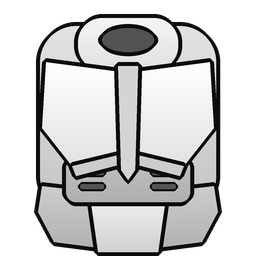
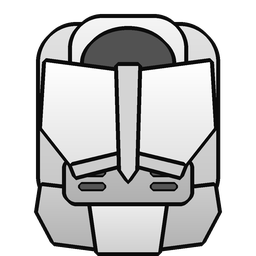
Bulwark v2: helmet sits inside the collar opening (dark crescent above it), rule added to the style guide
Claude-Session: https://claude.ai/code/session_01GM4XsNt8FF8EEgy8oUJDKj

Changed region(s): [[0.25, 0.0625, 0.75, 0.2812]]

diff --git a/Source/Art/v2/bulwark.py b/Source/Art/v2/bulwark.py
@@ -5,8 +5,8 @@ def sym(left):            # left half points (x<128) -> full symmetric outline
 # ---------------- BODY
 B=Layer()
 B.plate(B.rrect(40,26,216,212,36),226,196)                                    # torso block
-B.plate(B.rrect(78,18,178,70,24),245,225)                                     # collar rim
-B.plate(B.ell(102,28,154,52),82,stroke=4)                                      # neck opening
+B.plate(B.rrect(72,18,184,92,30),245,225)                                     # collar rim
+B.plate(B.ell(84,30,172,96),82,stroke=4)                                      # neck opening
 B.plate(B.poly([(42,186),(94,192),(100,248),(54,242),(38,212)]),205,178,mirror=True)   # side hip plates
 B.plate(B.poly([(90,196),(166,196),(158,252),(98,252)]),242,208)              # centre hip plate
 B.plate(B.rrect(66,158,190,202,10),192,176)                                   # abdomen

diff --git a/docs/STYLE_GUIDE.md b/docs/STYLE_GUIDE.md
@@ -33,7 +33,9 @@ the same 256 canvas, so these positions are what line them up):
 | Shoulders | 0,54 - 255,157      | top 7 - 54, bottom to 195 |
 | Helmet    | 67,65 - 188,197     | top 57 - 65, bottom to 214 |
 
-The helmet sits low, over the middle of the body, not on top of it.
+The helmet sits low, over the middle of the body, not on top of it. The body's dark neck opening (the inside
+of the collar, seen from slightly above) must be wide and low enough that the helmet covers its lower part:
+only a dark crescent of the far rim shows above the helmet. No band of collar between hole and helmet.
 
 The assembled sprite is a compact, nearly square mass, wider than it is tall: helmet in front of the
 upper torso, pauldrons out to the canvas edges, hip plates at the bottom. Not a human torso shape.
